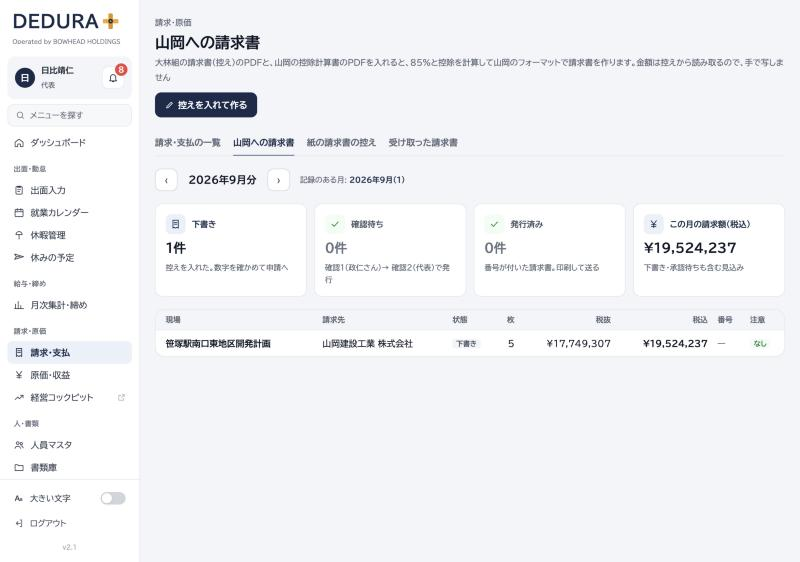
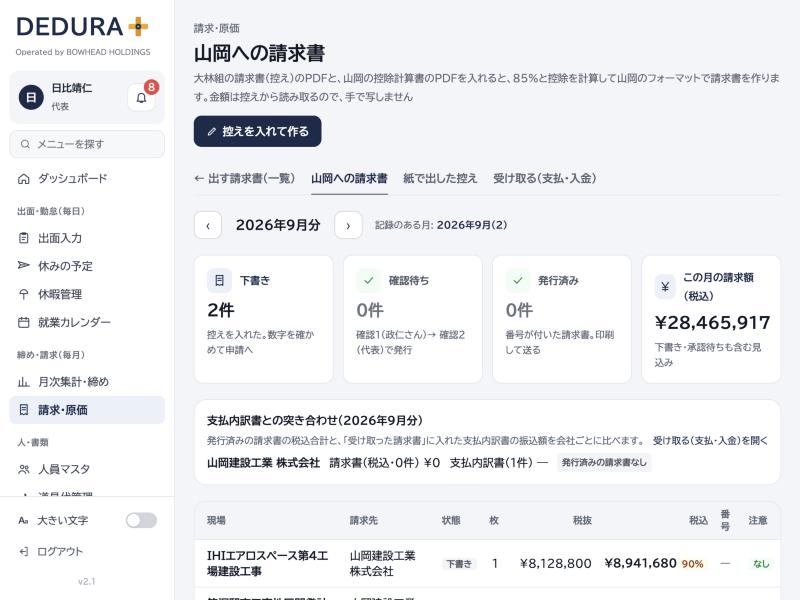
山岡への請求書マニュアル: 画面全体・控えを入れる窓・ボタン列の画像を新しい画面（請求・原価の統合後・3段承認）で撮り直す

diff --git a/public/manual-prime-invoice.html b/public/manual-prime-invoice.html
@@ -131,7 +131,7 @@
 <ul><li>計算: <code>floor((今回請求金額計 − 他社借受の人工分) × 割合) − 山岡が払った給与</code>。割合は既定 85%。消費税は 10%（切り捨て）</li><li>人工の期間: 前月21日〜当月20日（山岡の出来高調査日は当月末、帳票は翌月15日）</li><li>請求年月日: 控えの帳票年月日（翌月15日）。請求書の摘要の期間は対象月の1日〜末日</li><li>番号: <code>HCP-YYYYMM-NN</code>（応援の請求書 HC-… とは別の連番。取り消した番号は欠番）</li><li>同じ現場・同じ月に生きている請求書は1つ</li><li>詳しい仕様: <code>docs/prime-invoice.md</code>（開発者向け）</li></ul>
 <hr>
 <h2 id="history">改訂履歴</h2>
-<table><thead><tr><th>日付</th><th>内容</th></tr></thead><tbody><tr><td>2026-10-20</td><td>初版（機能のリリースと同時。承認ルート 格納→確認1→確認2、代表の1回で発行、割合の変更を含む）</td></tr><tr><td>2026-10-20</td><td>§6 「枚を手で足す」（スキャン画像の控えのとき）と請求年月日の変更を追記</td></tr><tr><td>2026-10-20</td><td>§5-1 発行で原価・収益の請求額に自動反映、§5-2 支払内訳書との突き合わせを追記</td></tr><tr><td>2026-10-20</td><td>§2-4 検算を「全枚の合計 vs 出面の総人工 × 常用単価」に変更（控除計算書の内訳は参考）</td></tr><tr><td>2026-10-20</td><td>§5-1 原価・収益は下書きの段階から請求書とつながる（自社現場は手入力なし）。印刷面を元の書式の寸法に合わせ、画像を差し替え</td></tr><tr><td>2026-10-20</td><td>「請求・支払」と「原価・収益」が1つの画面「請求・原価」（3タブ）になった。画面の呼び方を更新（画像は旧タブ名のまま）</td></tr></tbody></table>
+<table><thead><tr><th>日付</th><th>内容</th></tr></thead><tbody><tr><td>2026-10-20</td><td>初版（機能のリリースと同時。承認ルート 格納→確認1→確認2、代表の1回で発行、割合の変更を含む）</td></tr><tr><td>2026-10-20</td><td>§6 「枚を手で足す」（スキャン画像の控えのとき）と請求年月日の変更を追記</td></tr><tr><td>2026-10-20</td><td>§5-1 発行で原価・収益の請求額に自動反映、§5-2 支払内訳書との突き合わせを追記</td></tr><tr><td>2026-10-20</td><td>§2-4 検算を「全枚の合計 vs 出面の総人工 × 常用単価」に変更（控除計算書の内訳は参考）</td></tr><tr><td>2026-10-20</td><td>§5-1 原価・収益は下書きの段階から請求書とつながる（自社現場は手入力なし）。印刷面を元の書式の寸法に合わせ、画像を差し替え</td></tr><tr><td>2026-10-20</td><td>「請求・支払」と「原価・収益」が1つの画面「請求・原価」（3タブ）になった。画面の呼び方を更新し、画面全体・控えを入れる窓・ボタン列の画像を新しいものに差し替え</td></tr></tbody></table>
 
 
 <p style="text-align:center; color:#999; font-size:12px;">DEDURA＋ / 山岡への請求書マニュアル / 最終更新: 2026-10-20</p>

diff --git a/docs/manual-prime-invoice.md b/docs/manual-prime-invoice.md
@@ -220,4 +220,4 @@
 | 2026-10-20 | §5-1 発行で原価・収益の請求額に自動反映、§5-2 支払内訳書との突き合わせを追記 |
 | 2026-10-20 | §2-4 検算を「全枚の合計 vs 出面の総人工 × 常用単価」に変更（控除計算書の内訳は参考） |
 | 2026-10-20 | §5-1 原価・収益は下書きの段階から請求書とつながる（自社現場は手入力なし）。印刷面を元の書式の寸法に合わせ、画像を差し替え |
-| 2026-10-20 | 「請求・支払」と「原価・収益」が1つの画面「請求・原価」（3タブ）になった。画面の呼び方を更新（画像は旧タブ名のまま） |
+| 2026-10-20 | 「請求・支払」と「原価・収益」が1つの画面「請求・原価」（3タブ）になった。画面の呼び方を更新し、画面全体・控えを入れる窓・ボタン列の画像を新しいものに差し替え |
